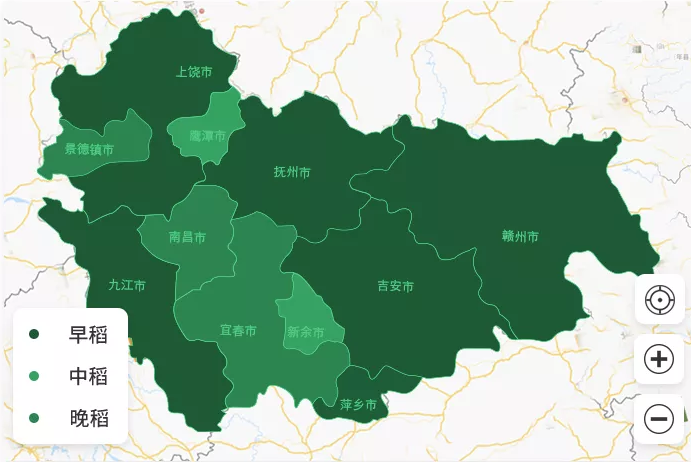
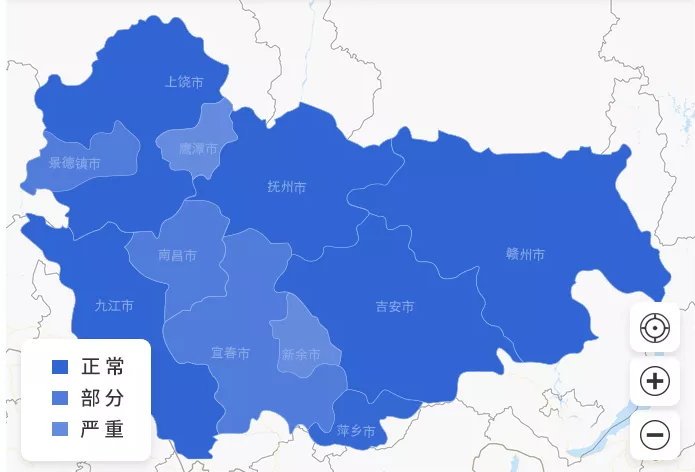
页面更改

diff --git a/index.html b/index.html
@@ -11,7 +11,7 @@
     <link rel="stylesheet" href="./common/index.css" />
     <link rel="stylesheet" href="./index.rem.css" />
     <script src="./common/index.js"></script>
-    <title>江西省粮食生产大数据平台</title>
+    <title>江西省水土保持大数据平台</title>
 </head>
 
 <body>
@@ -20,14 +20,12 @@
             <img src="./img/banner.png" alt="">
         </div>
         <div class="nav">
-            <div class="nav-item nav-active" onclick="headerTab('1')">耕地面积</div>
-            <div class="nav-item" onclick="headerTab('2')">种植制度</div>
-            <div class="nav-item" onclick="headerTab('3')">稻期统计</div>
-            <div class="nav-item" onclick="headerTab('2')">种粮大户</div>
-            <div class="nav-item" onclick="headerTab('3')">样点资料</div>
+            <div class="nav-item nav-active" onclick="headerTab('1')">水土流失</div>
+            <div class="nav-item" onclick="headerTab('2')">水土保持责任区</div>
+            <div class="nav-item" onclick="headerTab('3')">取弃土场</div>
         </div>
         <div class="main-warp">
-            <div class="search-header">江西省粮食生产大数据地图全貌</div>
+            <div class="search-header">江西省水土保持大数据分析</div>
             <div class="search-box">
                 <div class="main-left-input">
                     <select name="filter" id="province" onchange="selectProvince()">
@@ -66,17 +64,12 @@
             </div>
         </div>
         <div class="main-warp">
-            <div class="search-header">江西省粮食生产大数据分析</div>
+            <div class="search-header">江西省水土保持大数据分析</div>
             <div class="pie-box">
                 <div class="pie-data" >
-                    <div id="mainBar" style="width: 100%;height: 100%;font-size: 16px;margin: 0 auto;"></div>
+                    <div id="mainBar" style="width: 100%;height: 100%;font-size: 16px;"></div>
                 </div>
-                <div class="pie-data-detail">
-                    <div>晚稻省份:</div>
-                    <div>新余市 12%</div>
-                    <div>赣州市 42%</div>
-                </div>
-                <!-- <div class="main-right-data" id="serious">
+                <div class="main-right-data" id="serious">
                     <span class="main-right-point"></span>
                 </div>
                 <div class="main-right-data" id="normal">
@@ -84,16 +77,16 @@
                 </div>
                 <div class="main-right-data" id="part">
                     <span class="main-right-point" style="background: #EB6100;"></span>
-                </div> -->
+                </div>
             </div>
         </div>
         <div id="mainTable" class="main-warp main-right-table">
-            <div class="search-header">江西省粮食生产大数据分析</div>
-            <div class="data-content-header data-header">
+            <div class="search-header">江西省水土保持大数据分析</div>
+            <div class="data-content-header">
                 <div>地区</div>
-                <div>早稻(亩)</div>
-                <div>中稻(亩)</div>
-                <div>晚稻(亩)</div>
+                <div>正常</div>
+                <div>部门</div>
+                <div>严重</div>
             </div>
             <div id="dataContent" class="data-content">
                 
@@ -104,7 +97,7 @@
     </div>
 </body>
 <!-- jQuery -->
-<script src="./js/jquery.min.js"></script>
+<script src="http://code.jquery.com/jquery-2.1.3.min.js"></script>
 <script src="https://cdn.staticfile.org/echarts/4.3.0/echarts.min.js"></script>
 <script>
         $(".nav div").click(function() {
@@ -137,13 +130,13 @@
                 },
                 series: [
                     {
-                        name: '江西粮食',
+                        name: '江西水土',
                         type: 'pie',
                         radius: ['45%', '70%'],
                         avoidLabelOverlap: false,
                         label: {
                             show: true,
-                            fontSize: '20',
+                            fontSize: '40',
                         },
                         emphasis: {
                             label: {
@@ -156,14 +149,38 @@
                             show: true
                         },
                         data: [
-                            {value: 335, name: '晚稻'},
-                            {value: 310, name: '中稻'},
-                            {value: 234, name: '早稻'}
+                            {value: 335, name: '严重地区'},
+                            {value: 310, name: '正常地区'},
+                            {value: 234, name: '部分地区'}
                         ]
                     }
                 ]
             }; 
             myChart.setOption(option)
+            // 圆饼图下面的市
+            var areaList = {
+                normal: ['鹰潭市', '赣州市', '吉安市'],
+                part: ['上饶市', '景德镇市'],
+                serious: ['南昌市', '九江市', '萍乡市', '新余市', '抚州市', '宜春市']
+            }
+            let normalHtml = ''
+            let partHtml = ''
+            let seriousHtml = ''
+            $('#serious').html('<span class="main-right-point"></span>')
+            $('#part').html('<span class="main-right-point" style="background: #EB6100;"></span>')
+            $('#normal').html('<span class="main-right-point" style="background: #F8B62B;"></span>')
+            areaList.normal.forEach(item => {
+                normalHtml += '<div class="right-data">'+item+'</div>'
+            })
+            $('#normal').append(normalHtml);
+            areaList.part.forEach(item => {
+                partHtml += '<div class="right-data">'+item+'</div>'
+            })
+            $('#part').append(partHtml);
+            areaList.serious.forEach(item => {
+                seriousHtml += '<div class="right-data">'+item+'</div>'
+            })
+            $('#serious').append(seriousHtml);
         }
         getPieData()
         window.addEventListener("resize", function() {

diff --git a/index.rem.css b/index.rem.css
@@ -20,26 +20,25 @@
 
 .nav{
     width: 100%;
-    overflow: hidden;
+    height: 8rem;
     display: flex;
     justify-content: space-between;
     align-items: center;
-    font-size: 13px;
+    font-size: 16px;
     color: #333;
-    box-sizing: border-box;
-    padding: 0 1.5rem;
     background:rgba(255,255,255,1);
-    box-shadow: 0px 4px 10px 0px rgba(7,0,2,0.1);
+    box-shadow:0px 4px 10px 0px rgba(7,0,2,0.1);
 }
 
 .nav-item{
+    padding: 0 2rem;
     line-height: 8rem;
     border-bottom: 0.3rem solid #fff;
 }
 
 .nav-active{
-    color: #538C47;
-    border-bottom: 0.3rem solid #538C47;
+    color: #4767DA;
+    border-bottom: 0.3rem solid #4767DA;
 }
 
 .main-warp{
@@ -53,7 +52,7 @@
     width: 100%;
     height: 7.2rem;
     line-height: 7.2rem;
-    background:#538C47;
+    background:rgba(71,103,218,1);
     color: #fff;
     font-size: 16px;
     position: relative;
@@ -108,7 +107,7 @@
 .search-btn{
     width: 66.6rem;
     height: 7rem;
-    background: #538C47;
+    background: rgba(71,103,218,1);
     border-radius: 1rem;
     margin: 2rem auto 0;
     font-size: 16px;
@@ -134,13 +133,13 @@
     width: 68.9rem;
     overflow: hidden;
     margin: 0 auto 2rem;
+    padding-bottom: 2rem;
     box-shadow: 0px 4px 10px 0px rgba(7,0,2,0.1);
 }
 
 .pie-data{
     width: 100%;
     height: 39rem;
-    box-shadow: 0px 4px 10px 0px rgba(7,0,2,0.1);
 }
 
 #mainBar div {
@@ -153,21 +152,9 @@
     height: 100% !important;
 }
 
-.pie-data-detail{
-    margin-top: 2rem;
-    width: 100%;
-    padding: 0 3rem;
-    box-sizing: border-box;
-    display: flex;
-    justify-content: space-between;
-    height: 8.6rem;
-    line-height: 8.6rem;
-    font-size: 14px;
-}
-
 .main-right-data{
     width: 100%;
-    font-size: 14px;
+    font-size: 11px;
     font-family: Noto Sans S Chinese;
     font-weight: 400;
     color: rgba(51,51,51,1);
@@ -224,7 +211,6 @@
     width: 25%;
     text-align: center;
   }
-
 
 
 

diff --git a/common/index.js b/common/index.js
@@ -2,10 +2,12 @@ window.onload = () => {
     const data = {};
     const $ = window.document.querySelector.bind(window.document);
 };
-function handleCalc() {
-    var dw = document.body.clientWidth;
-    var minScale = dw / 75;
-    document.documentElement.style.fontSize = minScale + 'px';
-}
-handleCalc();
-window.addEventListener('resize', handleCalc);
+document.addEventListener('DOMContentLoaded', function() {
+    function handleCalc() {
+        var dw = document.body.clientWidth;
+        var minScale = dw / 75;
+        document.documentElement.style.fontSize = minScale + 'px';
+    }
+    handleCalc();
+    window.addEventListener('resize', handleCalc);
+});
